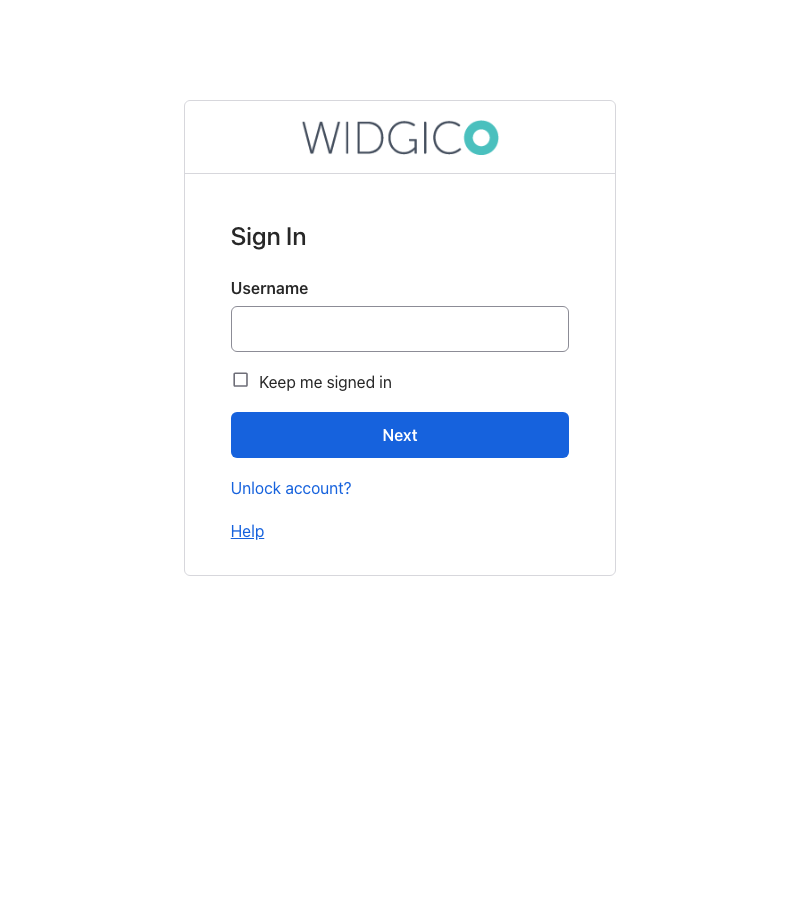
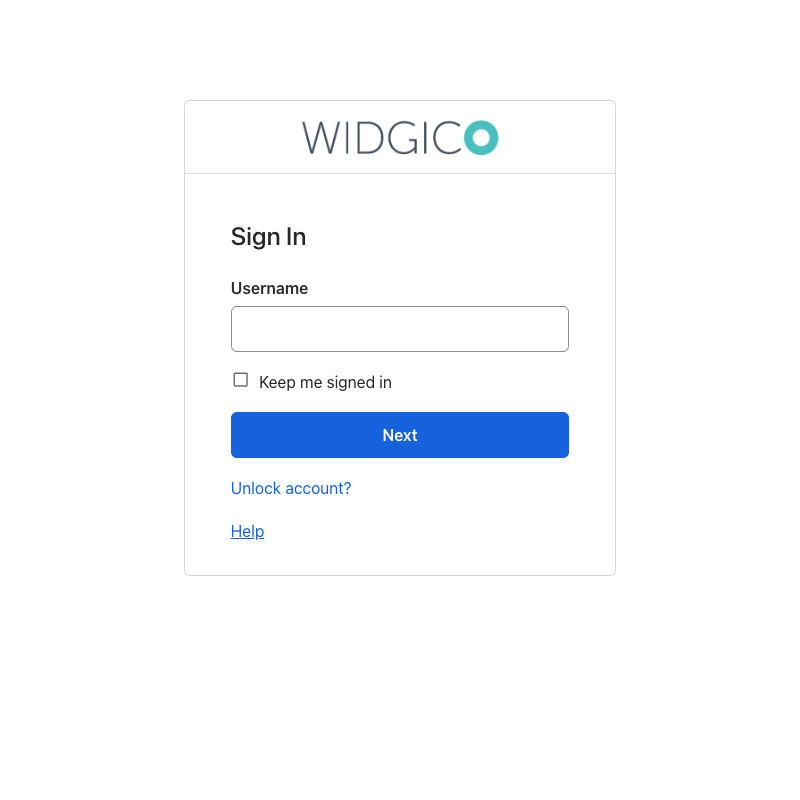
test window resize with bumped testcafe version

diff --git a/vrtUtil/vrtUtil.js b/vrtUtil/vrtUtil.js
@@ -20,6 +20,7 @@ const compareScreenshot = async (testObject, name) => {
   if (!testObject.testRun.opts.userVariables.gen3 || typeof testObject === 'undefined') {
     return;
   }
+  await testObject.resizeWindow(800, 800);
   const escapeRegex = (s) => s.replace(/[-/\\^$*+?.()|[\]{}]/g, '\\$&');
   const testFixtureName = escapeRegex(testObject.testRun.test.testFile.currentFixture.name);
   const testName = escapeRegex(testObject.testRun.test.name);
